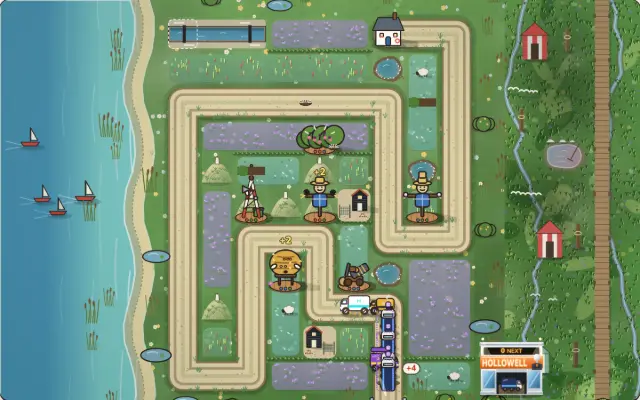
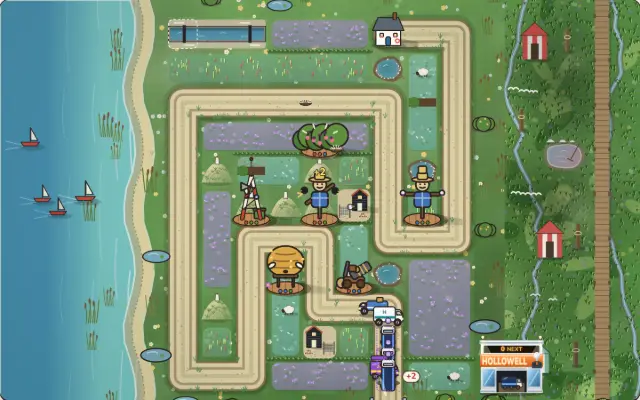
431 slice 3: Hedgerow's 2D towers stand 1.4 cells (was 1.2), the thing worth looking at on the field (1.56, the item's 1.3x, overlapped neighbours on adjacent plots and met the frame); cath2d, rack-roles, silhouettes pass; Hedgerow key art re-shot
Claude-Session: https://claude.ai/code/session_01SimvMN1RHBGCWN7Eo7MzhN

diff --git a/games/hedgerow/src/render.ts b/games/hedgerow/src/render.ts
@@ -69,7 +69,9 @@ import {
 import { shadowDir } from "./sunlight";
 
 /** Plan item 322: a tower on the field is drawn this much over its cell's size. */
-const FIELD_TOWER = 1.2;
+// Plan item 431: 1.4 cells (was 1.2): a tower is the thing worth looking at on the field, not a token on its plot (at
+// 1.56, the item's 1.3x, neighbours on adjacent plots overlapped and the top row met the frame).
+const FIELD_TOWER = 1.4;
 
 interface Shot {
   kind: TowerKind;
